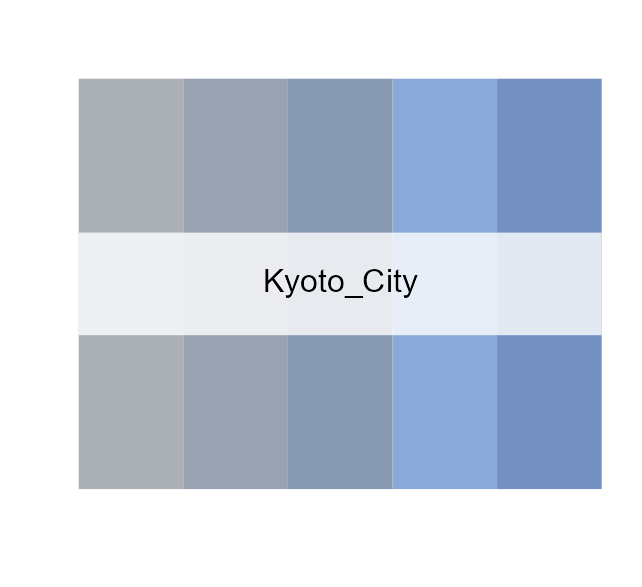
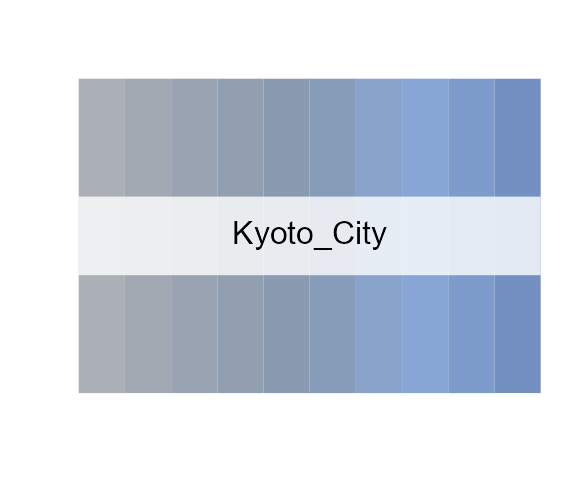
23.04.09

Changed region(s): [[0.1239, 0.1222, 0.9604, 0.8554]]

diff --git a/README.md b/README.md
@@ -29,7 +29,7 @@ Show_KG_Palette()
 
 ``` r
 #Plot the palette
-Plot_KG_Palette("Kyoto_City", n = 5, colplot = TRUE)
+Plot_KG_Palette("Kyoto_City", n = 10, colplot = TRUE)
 ```
 
 <img src="man/figures/Plot_KG_Palette.png" width="50%"/>
